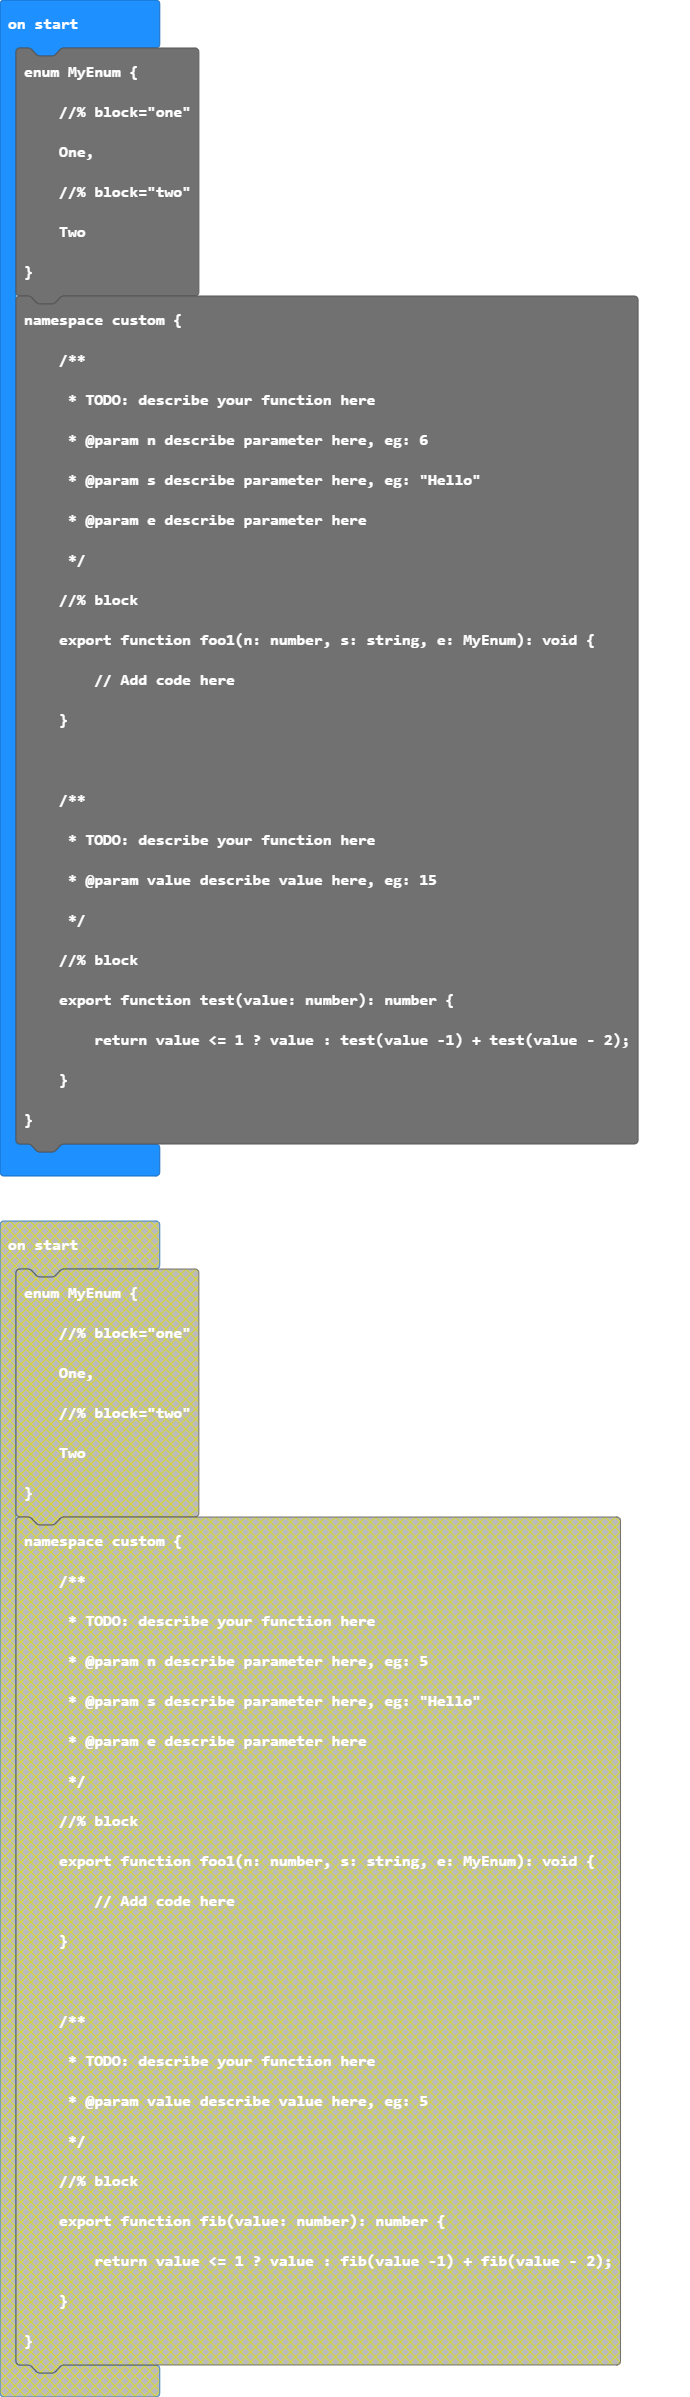
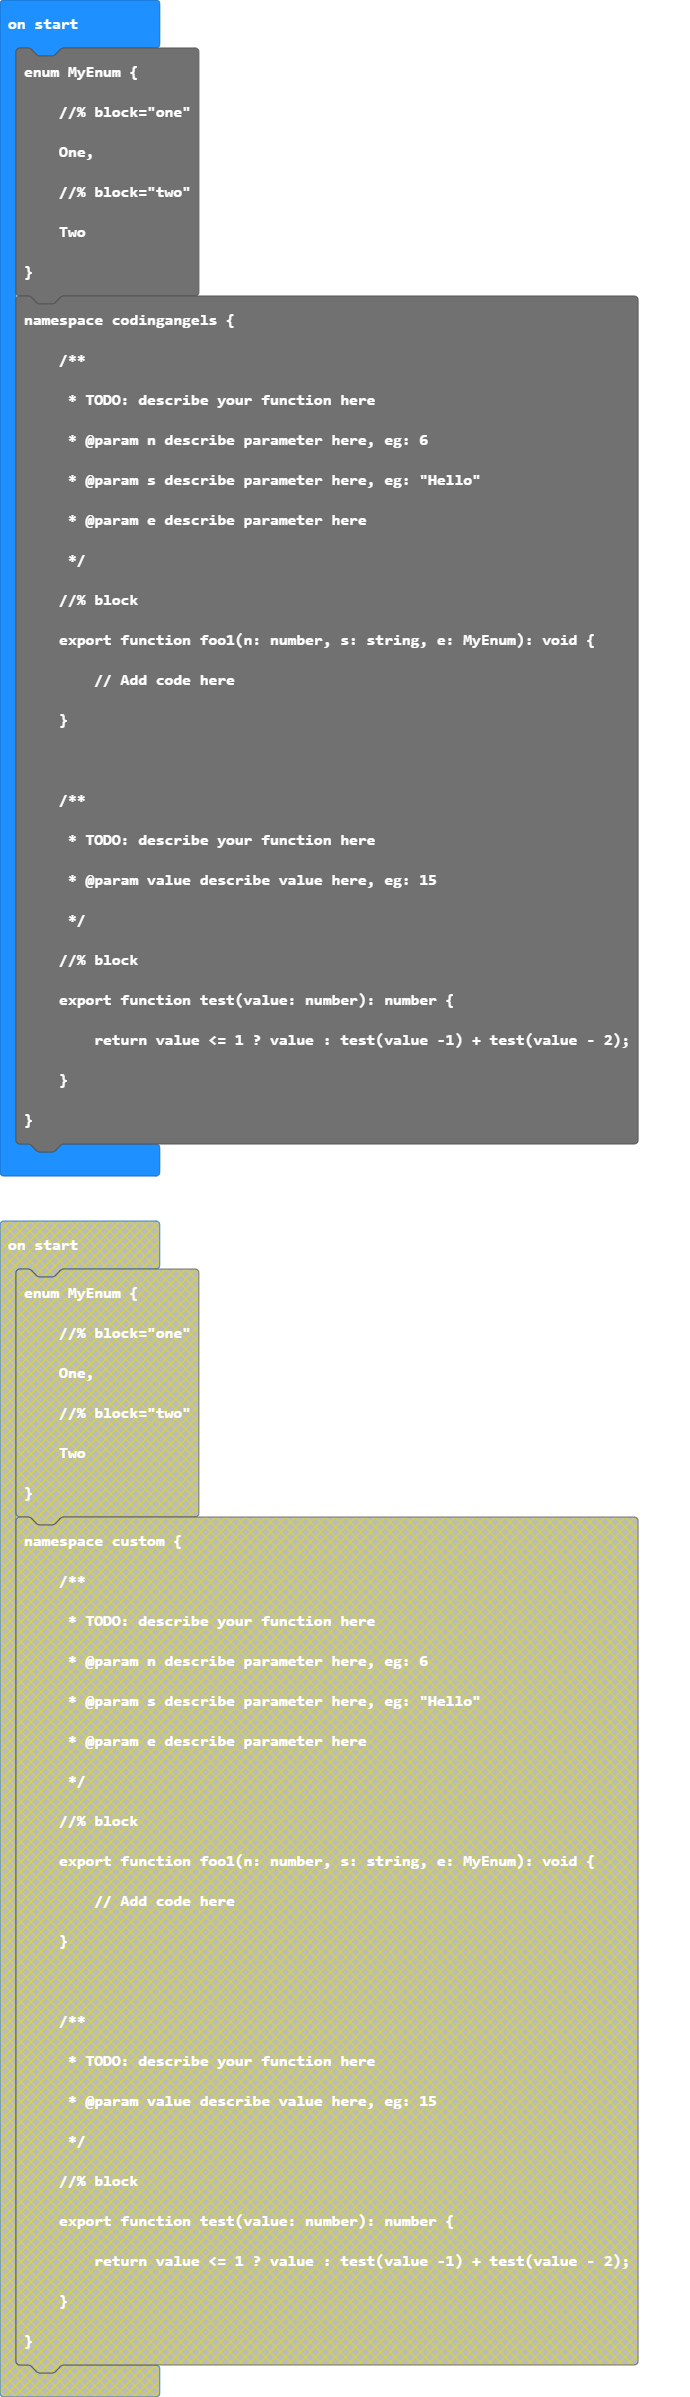
Update main.blocks, main.ts

diff --git a/main.ts b/main.ts
@@ -4,7 +4,7 @@ enum MyEnum {
     //% block="two"
     Two
 }
-namespace codingangels {
+namespace customextn {
     /**
      * TODO: describe your function here
      * @param n describe parameter here, eg: 6
